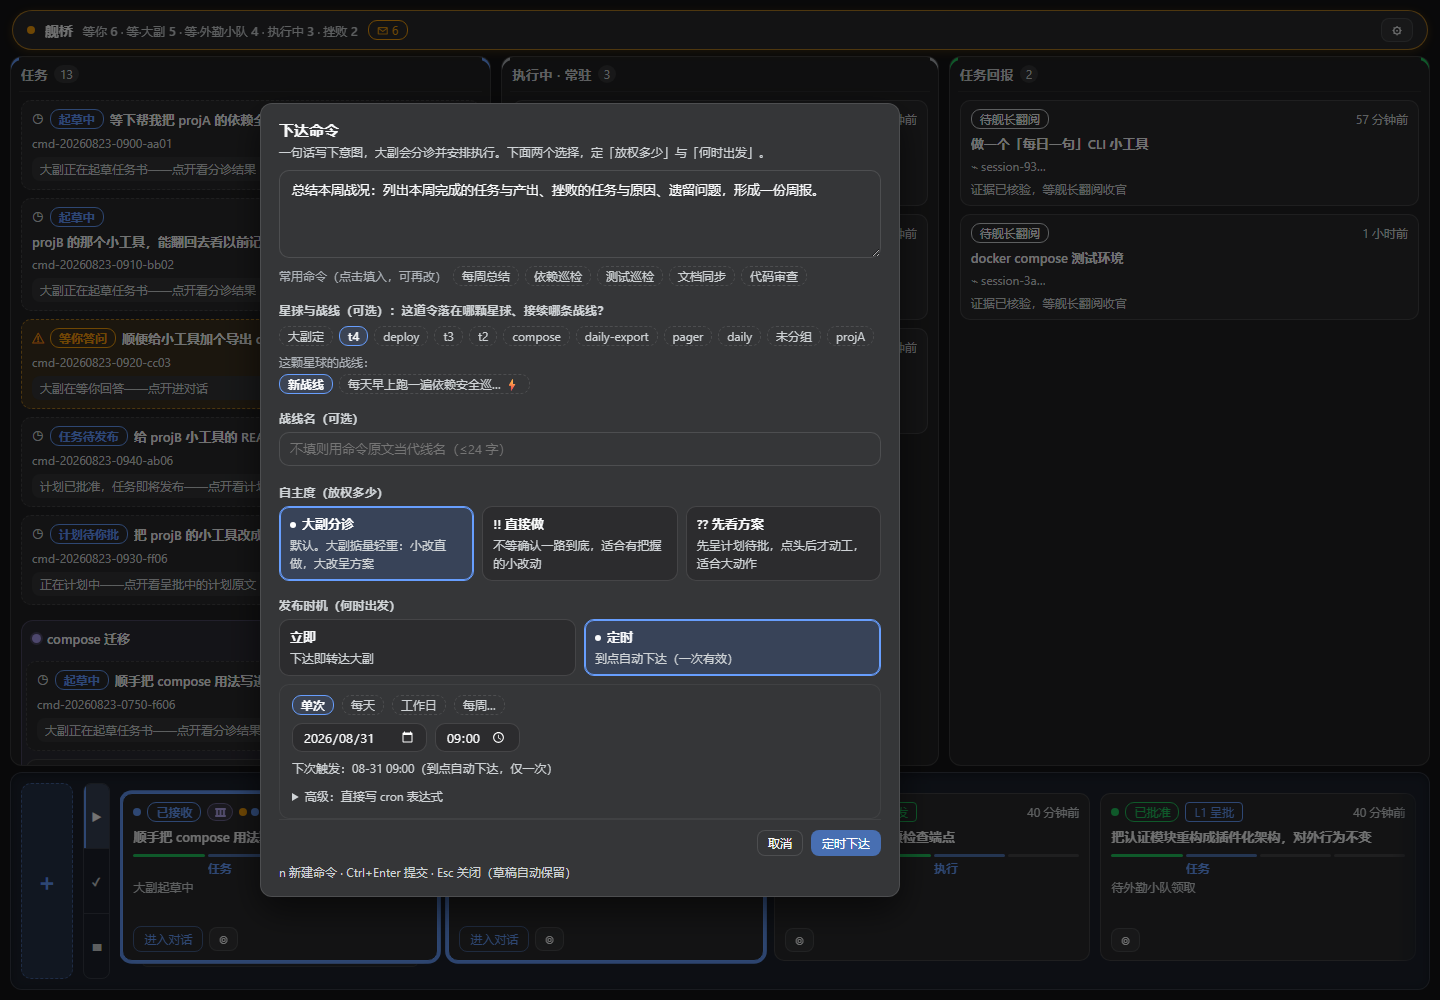
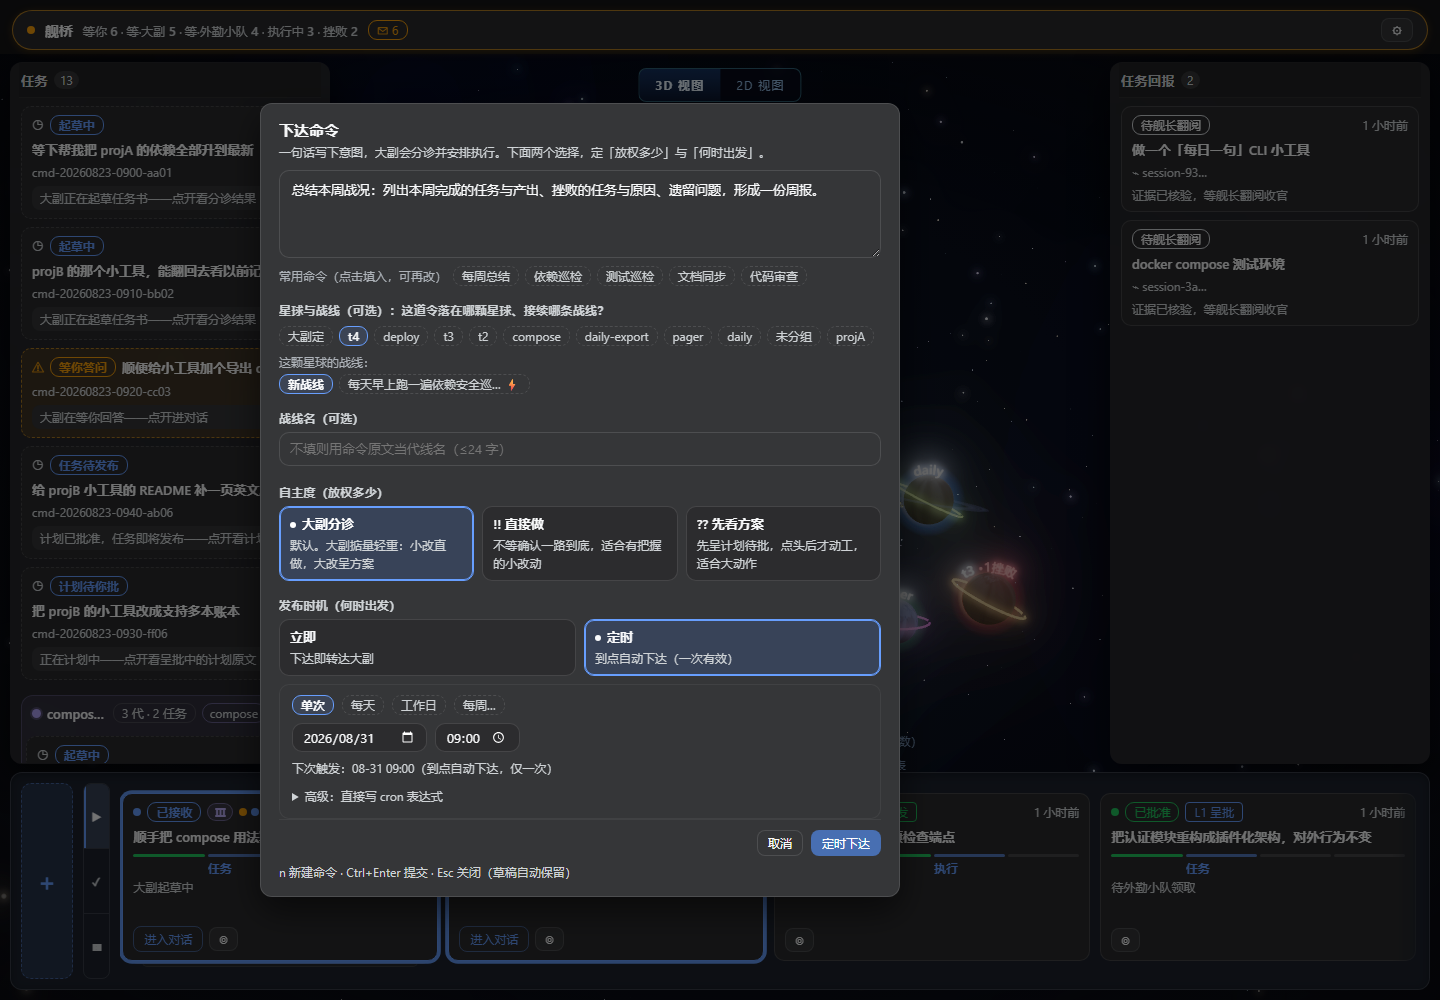
README 图组全量换暗色星域视图（元首令）：六张统一 map 态
- shoot-readme 全镜头进 map+3D 背景：舰桥=浮舱压星域/弹窗压星域/星球悬停=族系高亮/岛钉在星域上/2D 雷达
- hero 保持元首实拍（shooter 自动镜头已改道 .goal/evidence 不再覆盖 docs）

diff --git a/scripts/shoot-readme.py b/scripts/shoot-readme.py
@@ -1,10 +1,9 @@
 # -*- coding: utf-8 -*-
-"""README screenshot shooter: dark theme, .war-root element shots (host sidebar
-never visible in frame — no layout surgery, zero reflow risk).
+"""README screenshot shooter — ALL shots dark + starfield view (元首令 2026-08-30).
 
-Usage: python scripts/shoot-readme.py
 Server must run the playground seed (scripts/seed-playground.py) on :3080.
-Shots land in docs/readme-*.png.
+Shots land in docs/readme-*.png. The auto starfield capture goes to
+.goal/evidence/ — the README hero is the 元首's own screenshot, never overwritten.
 """
 import sys
 
@@ -46,15 +45,29 @@ def enter(page, view):
         if ((b.textContent || '').includes('忽略')) b.click()
       })
     }""")
-    page.wait_for_timeout(500)
-    # dim the host shell around the plugin board so element shots have clean edges
+    page.wait_for_timeout(400)
+    page.wait_for_timeout(800)
     page.evaluate("""() => {
       const root = document.querySelector('.war-root')
       for (let el = root.parentElement; el !== document.body; el = el.parentElement) {
         el.style.background = '#0b0d12'
       }
     }""")
-    page.wait_for_timeout(300)
+    page.wait_for_timeout(200)
+
+
+def enter_map3d(page):
+    """map view + 3D mode + zoomed out a touch for framing."""
+    enter(page, 'map')
+    page.wait_for_selector('canvas', timeout=20000)
+    page.evaluate("() => document.querySelector('[data-wz-mode=\"3d\"]').click()")
+    page.wait_for_timeout(2500)
+    page.mouse.move(720, 450)
+    for _ in range(2):
+        page.mouse.wheel(0, 300)
+        page.wait_for_timeout(140)
+    page.mouse.move(120, 950)  # park off-canvas (dispatch area)
+    page.wait_for_timeout(2600)
 
 
 def root_shot(page, path):
@@ -62,16 +75,17 @@ def root_shot(page, path):
     print(f'shot: {path}')
 
 
+PAGER_WS = 'D:/Users/kaiji/vibecodingKJ/projects/dsh-plugin-warroom/.smoke-state/ws/projB/pager'
+
 with sync_playwright() as pw:
     browser = pw.chromium.launch()
     page = browser.new_page(viewport={'width': 1720, 'height': 1000})
 
-    # ---- shot 1: list board (island + three zones + dispatch) ----
-    enter(page, 'list')
-    assert page.locator('.war-board:not(.war-mapmode)').count() == 1, 'expected list view'
+    # ---- shot 1: starfield board (pods over the 3D field) ----
+    enter_map3d(page)
     root_shot(page, 'docs/readme-board.png')
 
-    # ---- shot 2: composer (templates + fused planet/front + alarm) ----
+    # ---- shot 2: composer modal over the starfield ----
     page.locator('.war-dispatch-add').click()
     page.wait_for_selector('.war-composer-modal', timeout=3000)
     page.wait_for_timeout(250)
@@ -84,50 +98,44 @@ with sync_playwright() as pw:
     page.keyboard.press('Escape')
     page.wait_for_timeout(250)
 
-    # ---- shot 3: focus page (first dock card — plan-pending command) ----
-    page.locator('.war-card', has_text='多本账本').first.click()
+    # ---- shot 3: focus page over the starfield (L1 plan-pending) ----
+    page.locator('.war-dispatch .war-command-card', has_text='多本账本').first.click()
     page.wait_for_selector('.war-modal', timeout=3000)
     page.wait_for_timeout(500)
     root_shot(page, 'docs/readme-focus.png')
     page.keyboard.press('Escape')
     page.wait_for_timeout(250)
 
-    # ---- shot 4: 3D starfield hero ----
-    enter(page, 'map')
-    assert page.locator('.war-mapmode').count() >= 1, 'expected map view'
-    page.wait_for_selector('canvas', timeout=20000)
-    page.evaluate("() => document.querySelector('[data-wz-mode=\"3d\"]').click()")
-    page.wait_for_timeout(2500)
-    page.mouse.move(720, 450)
-    for _ in range(4):
-        page.mouse.wheel(0, 340)
-        page.wait_for_timeout(140)
-    page.mouse.move(780, 150)  # park cursor on empty canvas (page coords: root starts at x=280)
-    page.wait_for_timeout(3200)
-    root_shot(page, '.goal/evidence/v18/shoot-readme-starfield.png')  # 自动镜头不入 docs——README hero 用元首实拍（元首文件重跑会覆盖）
-
-    # ---- shot 5: 2D tactical view (default cmd mode of the map) ----
-    enter(page, 'map')
-    page.wait_for_selector('canvas', timeout=20000)
-    page.wait_for_timeout(2500)
-    root_shot(page, 'docs/readme-2d.png')
-
-    # ---- shot 6: hover family (list view; hover a 3-gen chain card -> pipes + highlight) ----
-    enter(page, 'list')
-    card = page.locator('.war-dispatch .war-command-card', has_text='compose').first
-    card.hover()
-    page.wait_for_timeout(1200)
+    # ---- shot 4: planet hover -> family highlight (starfield native) ----
+    ppos = page.evaluate("""(ws) => {
+      const root = document.querySelector('.war-starfield')
+      const r = root.getBoundingClientRect()
+      const p = window.__wz.planetScreen(ws)
+      return p === null ? null : { x: r.x + p.x, y: r.y + p.y }
+    }""", PAGER_WS)
+    assert ppos is not None, 'pager planet not on screen'
+    page.mouse.move(ppos['x'], ppos['y'], steps=4)
+    page.wait_for_timeout(1500)
     root_shot(page, 'docs/readme-hover.png')
+    page.mouse.move(120, 950)
+    page.wait_for_timeout(400)
 
-    # ---- shot 7: island pinned/expanded (点击钉住——展开浮层在岛元素框外，须区域裁剪) ----
-    enter(page, 'list')
+    # ---- shot 5: island pinned over the starfield ----
     page.locator('.war-island').hover()
     page.wait_for_timeout(700)
     page.locator('.war-island').click()
     page.wait_for_timeout(700)
     box = page.locator('.war-island').first.bounding_box()
-    clip = {'x': max(0, box['x'] - 8), 'y': max(0, box['y'] - 8), 'width': min(1700 - box['x'], box['width'] + 760), 'height': min(box['y'] + box['height'] + 560, 990 - box['y'])}
+    clip = {'x': max(0, box['x'] - 8), 'y': max(0, box['y'] - 8),
+            'width': min(1700 - box['x'], box['width'] + 760),
+            'height': min(box['y'] + box['height'] + 560, 990 - box['y'])}
     page.screenshot(path='docs/readme-island.png', clip=clip)
     print('shot: docs/readme-island.png')
+
+    # ---- shot 6: 2D tactical radar ----
+    enter(page, 'map')
+    page.wait_for_selector('canvas', timeout=20000)
+    page.wait_for_timeout(2500)
+    root_shot(page, 'docs/readme-2d.png')
 
     browser.close()

diff --git a/README.md b/README.md
@@ -49,13 +49,13 @@
 
 ## 它长什么样
 
-### 舰桥：一条命令的一生，一眼看完
+### 舰桥：星域即桌面
 
 ![舰桥](docs/readme-board.png)
 
-- **灵动岛**收编全部操作件与计数：收件箱（等你定夺的事）、到访摘要（你离开时发生了什么）；
-- **三列局势墙**：任务（大副侧台账）→ 执行中（实时动词活动行）→ 任务回报（等你翻阅收官）；
-- **底部命令调度条**：全部命令卡横滚，每张卡一条四段生命条（命令→任务→执行→战报）；
+- **星域是界面本体**：任务 / 执行中 / 任务回报三只浮舱贴边压图，底部命令调度条满宽压底；
+- **浮舱即战况**：任务（大副侧台账）→ 执行中（实时动词活动行）→ 任务回报（等你翻阅收官）；
+- **命令调度条**：全部命令卡横滚，每张卡一条四段生命条（命令→任务→执行→战报）；
 - 卡片按**战线分组**、链色随战线——多代续接的战线一眼成串。
 
 ### 灵动岛：到访即处理
@@ -69,8 +69,8 @@
 
 ![悬停聚焦](docs/readme-hover.png)
 
-悬停任何一张卡，同族（同一条战线）的卡亮起、其余压暗——多代续接的战线
-不用找，它自己会亮。
+悬停任何一张卡——乃至直接悬停星球——同族（同一条战线）的任务、执行、回报卡
+一起亮起，其余压暗；管线随族显形。多代续接的战线不用找，它自己会亮。
 
 ### 2D 战术盘：雷达值班态
 
